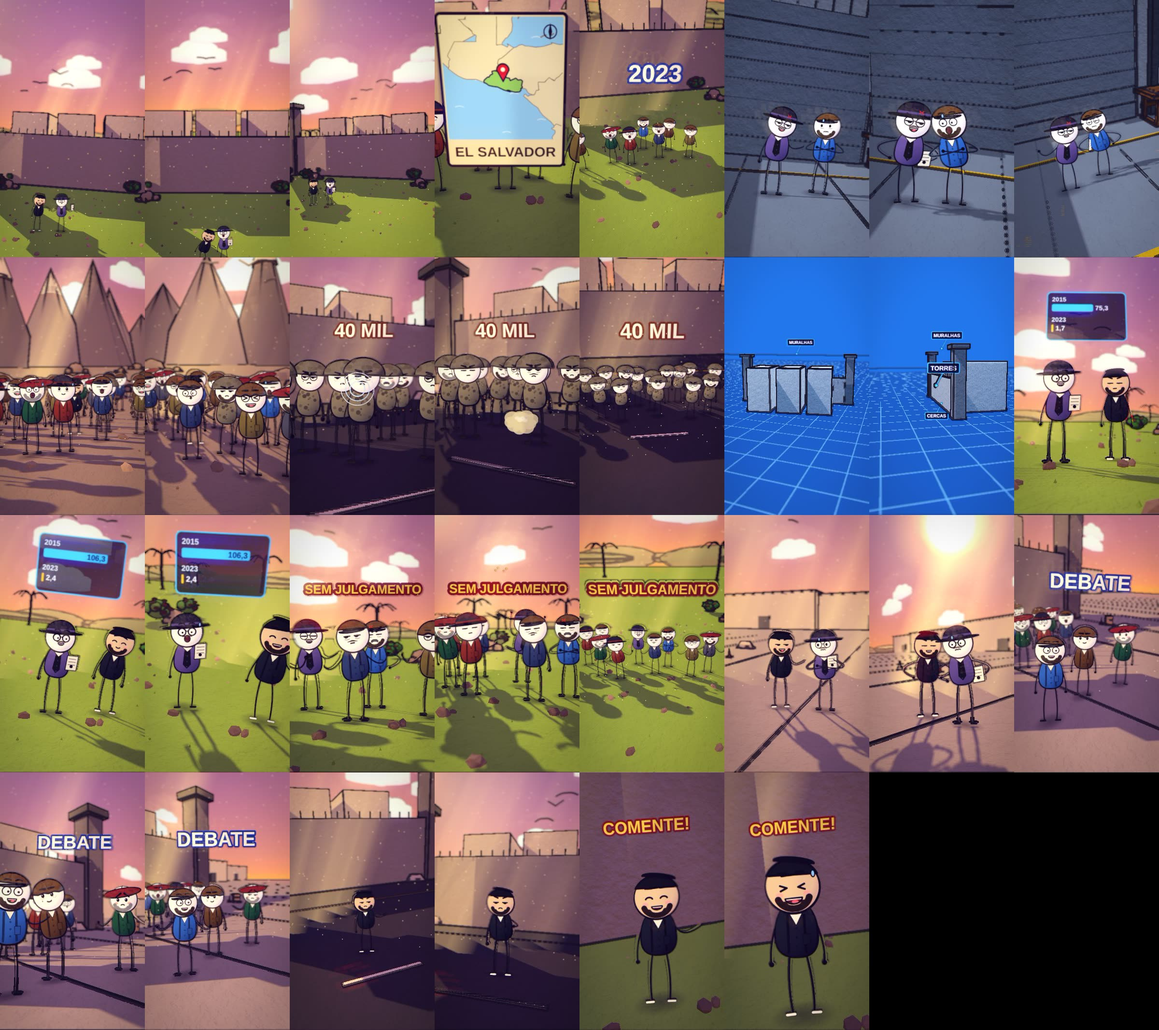
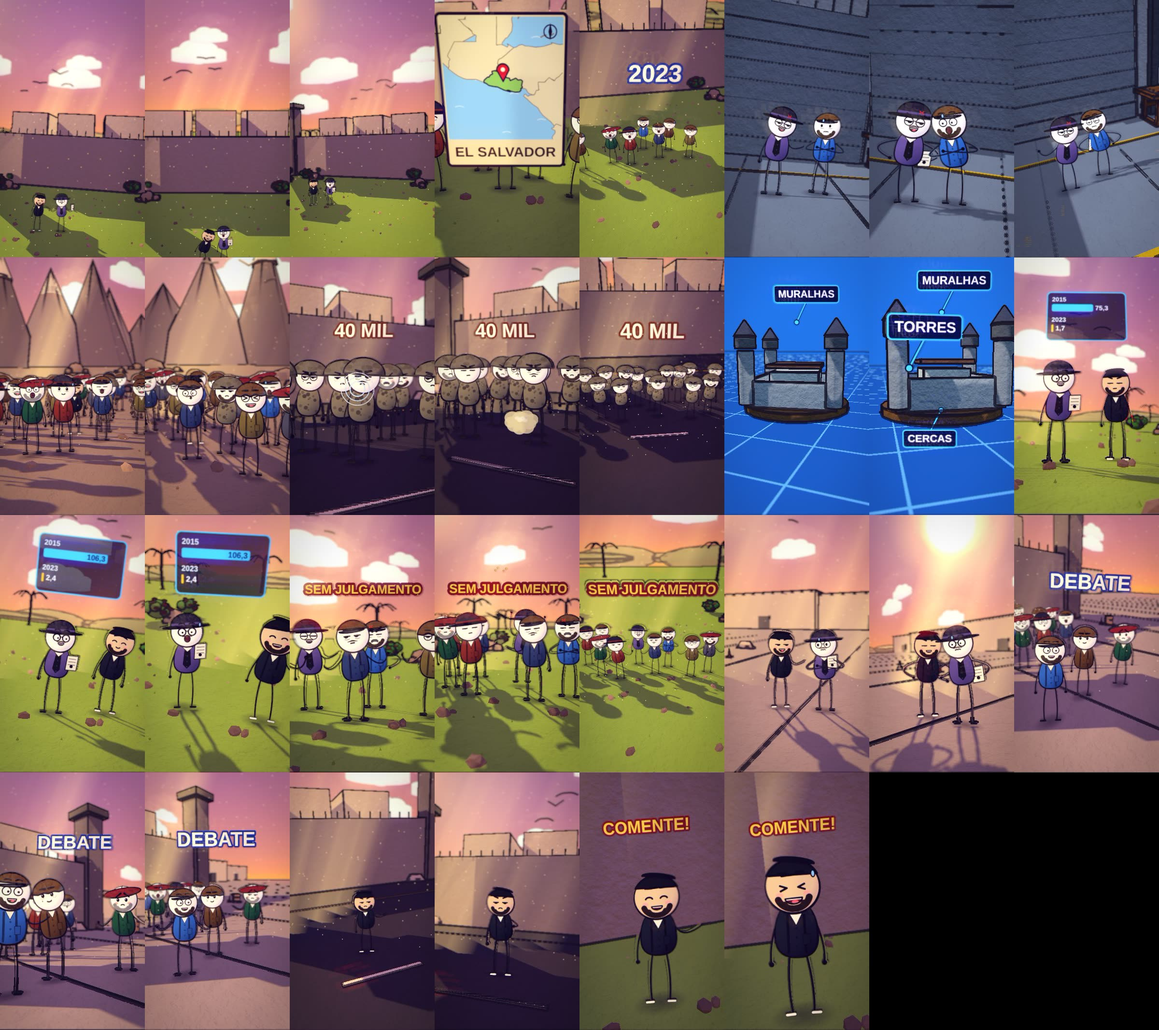
cecot2023: storyboard v9 aprovado
Claude-Session: https://claude.ai/code/session_01HE8Dy2wiQov2uhW6ZYikBX

Changed region(s): [[0.625, 0.2477, 0.875, 0.4953]]

diff --git a/ferramenta-shorts/web/story.js b/ferramenta-shorts/web/story.js
@@ -50,6 +50,7 @@ const SPEC = {
 };
 
 // FOLHA3 b5467cce7ec9 30 acoes=29 faltando=0
+SPEC.fit = {"b0":1.404,"b0~1":1.404,"b0~2":1.972,"b4":1.254,"b4_1":1.12,"b6~2":1.12,"b7":1.254,"b7_1":1.12};
 // ===== STORY RUNTIME (generic): turns a declarative SPEC (stories/<id>.spec.js, concatenated before this file) into the story.js interface the engine expects =====
 import { camFromKeys, clamp, lerp, ramp, q, blinkAt, idle, M } from './motion.js';
 export const FPS = 30, TOTAL = SPEC.total, DECK = 6;

diff --git a/ferramenta-shorts/stories/cecot2023/cronograma.md b/ferramenta-shorts/stories/cecot2023/cronograma.md
@@ -30,13 +30,13 @@ N | Etapa | O que confere | Estado | Proximo passo
 5 | Voz | narracao neural gerada e tempos por palavra | FEITO | 
 6 | Estilo e enquadramento | autoajuste de luz/cor e ajuste de camera de cada tomada | FEITO | 
 7 | Gates | camera OK, todas as tomadas OK, estilo OK | FEITO | 
-8 | Storyboard e grade de acoes | video inteiro em quadros + 1 quadro no instante de cada acao | PENDENTE | 
-9 | Revisao escrita e aprovacao | uma linha por frase conferindo com a folha 3 e com o quadro da pesquisa | BLOQUEADO (etapa anterior pendente) | ./aprovar_storyboard.sh cecot2023
+8 | Storyboard e grade de acoes | video inteiro em quadros + 1 quadro no instante de cada acao | FEITO | 
+9 | Revisao escrita e aprovacao | uma linha por frase conferindo com a folha 3 e com o quadro da pesquisa | PENDENTE | ./aprovar_storyboard.sh cecot2023
 10 | Render | todos os quadros renderizados nesta versao das folhas | BLOQUEADO (etapa anterior pendente) | 
 11 | Montagem e som | trechos + voz + musica + efeitos; volume normalizado | BLOQUEADO (etapa anterior pendente) | 
 12 | Conferencia | conferir.sh sem falha e folha de contato olhada | BLOQUEADO (etapa anterior pendente) | ./conferir.sh cecot2023
 13 | Auditoria das acoes | 1 quadro do mp4 em cada palavra de acao | REFAZER (a etapa anterior mudou) | bash auditar_acoes.sh local cecot2023 <mp4>
 14 | Entrega | mp4 original 1080x1920 enviado; commit e push | BLOQUEADO (etapa anterior pendente) | 
 
-**Etapa atual:** 8. Storyboard e grade de acoes
+**Etapa atual:** 9. Revisao escrita e aprovacao
 

diff --git a/ferramenta-shorts/stories/cecot2023/revisao_storyboard.md b/ferramenta-shorts/stories/cecot2023/revisao_storyboard.md
@@ -5,7 +5,7 @@ b1: OK - inaugurada em janeiro de 2023 numa area isolada: mapa de El Salvador co
 b2: OK - por anos El Salvador teve taxas de assassinato por causa das gangues: reporter assustado e civil assustado conversando em sala cinza sem prisao na frente.
 b3: OK - o presidente Bukele decretou estado de excecao e suspeitos foram presos: Bukele ao lado de soldado, montanhas ao fundo, grupo de civis atras.
 b4: OK - centro de confinamento com vagas para quarenta mil presos: batalhao de soldados em blocos com texto 40 MIL, muralha alta e torre de vigia atras.
-b5: OK - muralhas altas, cercas eletricas e torres de vigia: cena de explicacao com o presidio girando e rotulos legiveis sem corte.
+b5: CORRIGIDO - muralhas altas, cercas eletricas e torres de vigia: rotulos da cena de explicacao estavam minusculos e cercas caia num bloco -> maquete prison_mini girando com MURALHAS, TORRES e CERCAS grandes e legiveis.
 b6: OK - os assassinatos despencaram: grafico 106,3 em 2015 contra 2,4 em 2023 com dois personagens em pe, ninguem cai.
 b7: OK - organizacoes de direitos humanos denunciaram prisoes sem julgamento: civis protestando em campo com texto SEM JULGAMENTO, sem tiro e sem batalha.
 b8: OK - o governo responde que as ruas ficaram seguras e que a maioria apoia: Bukele e reporter conversando em patio de concreto com muralha ao longe.
